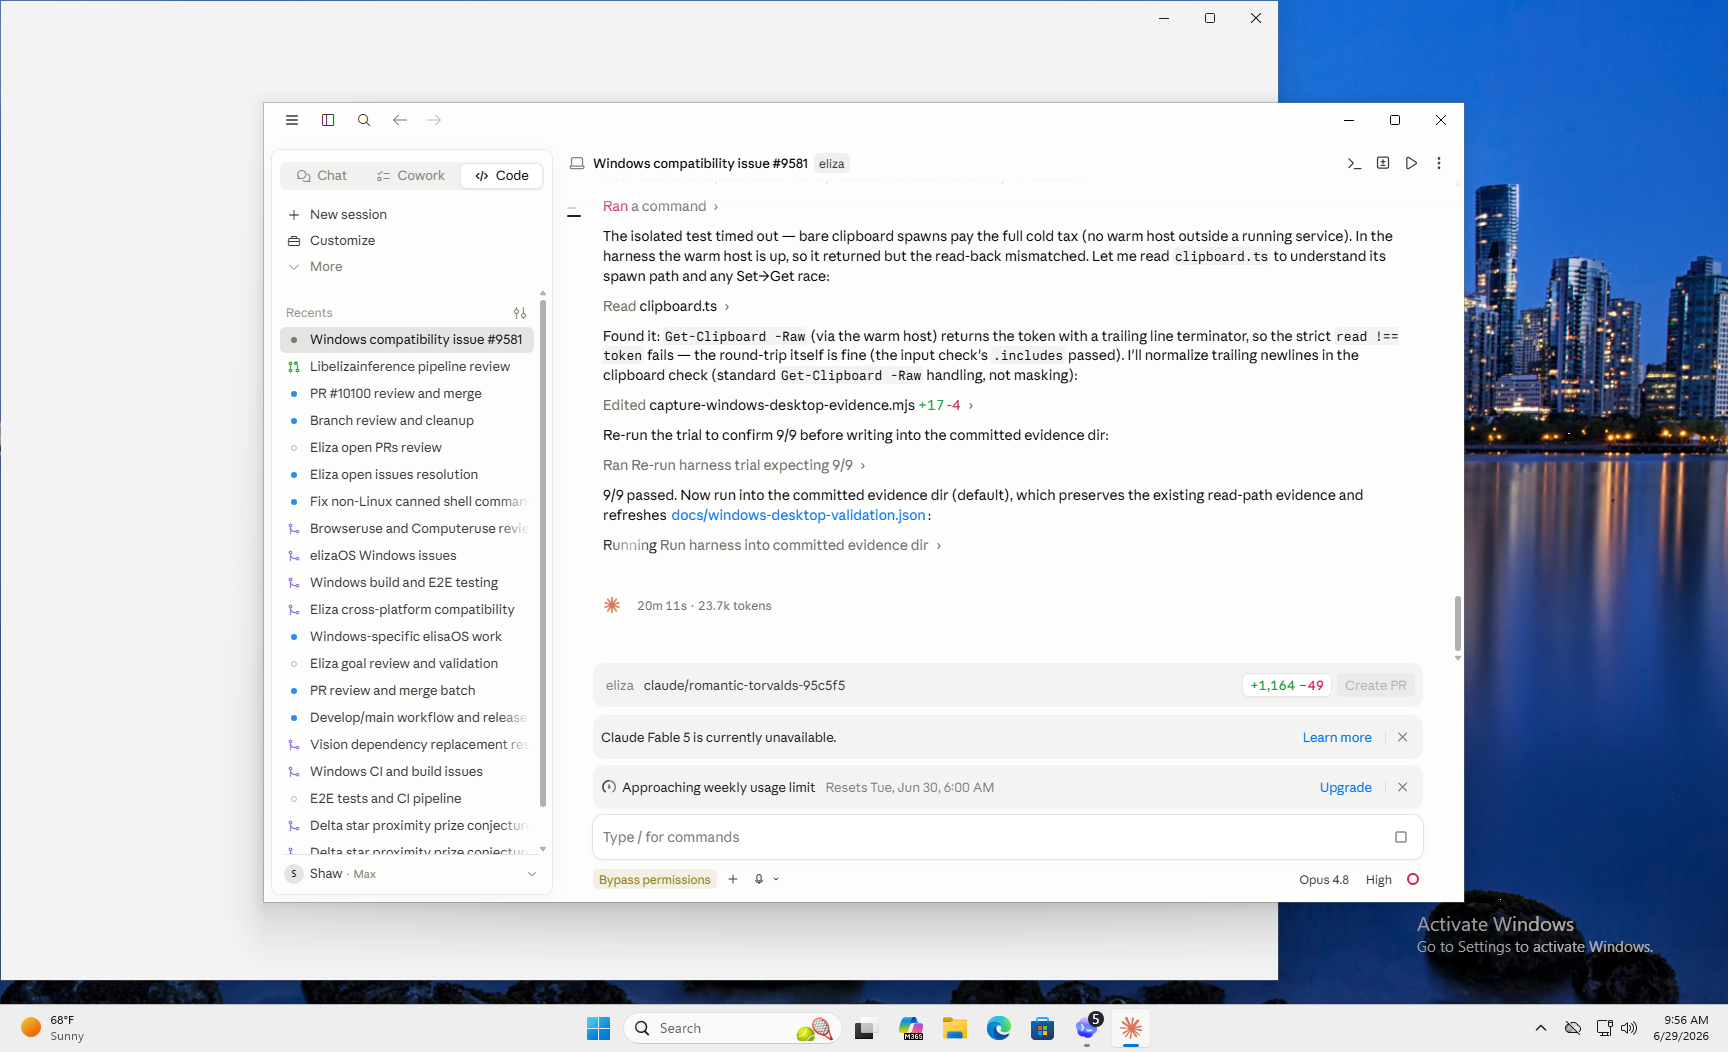
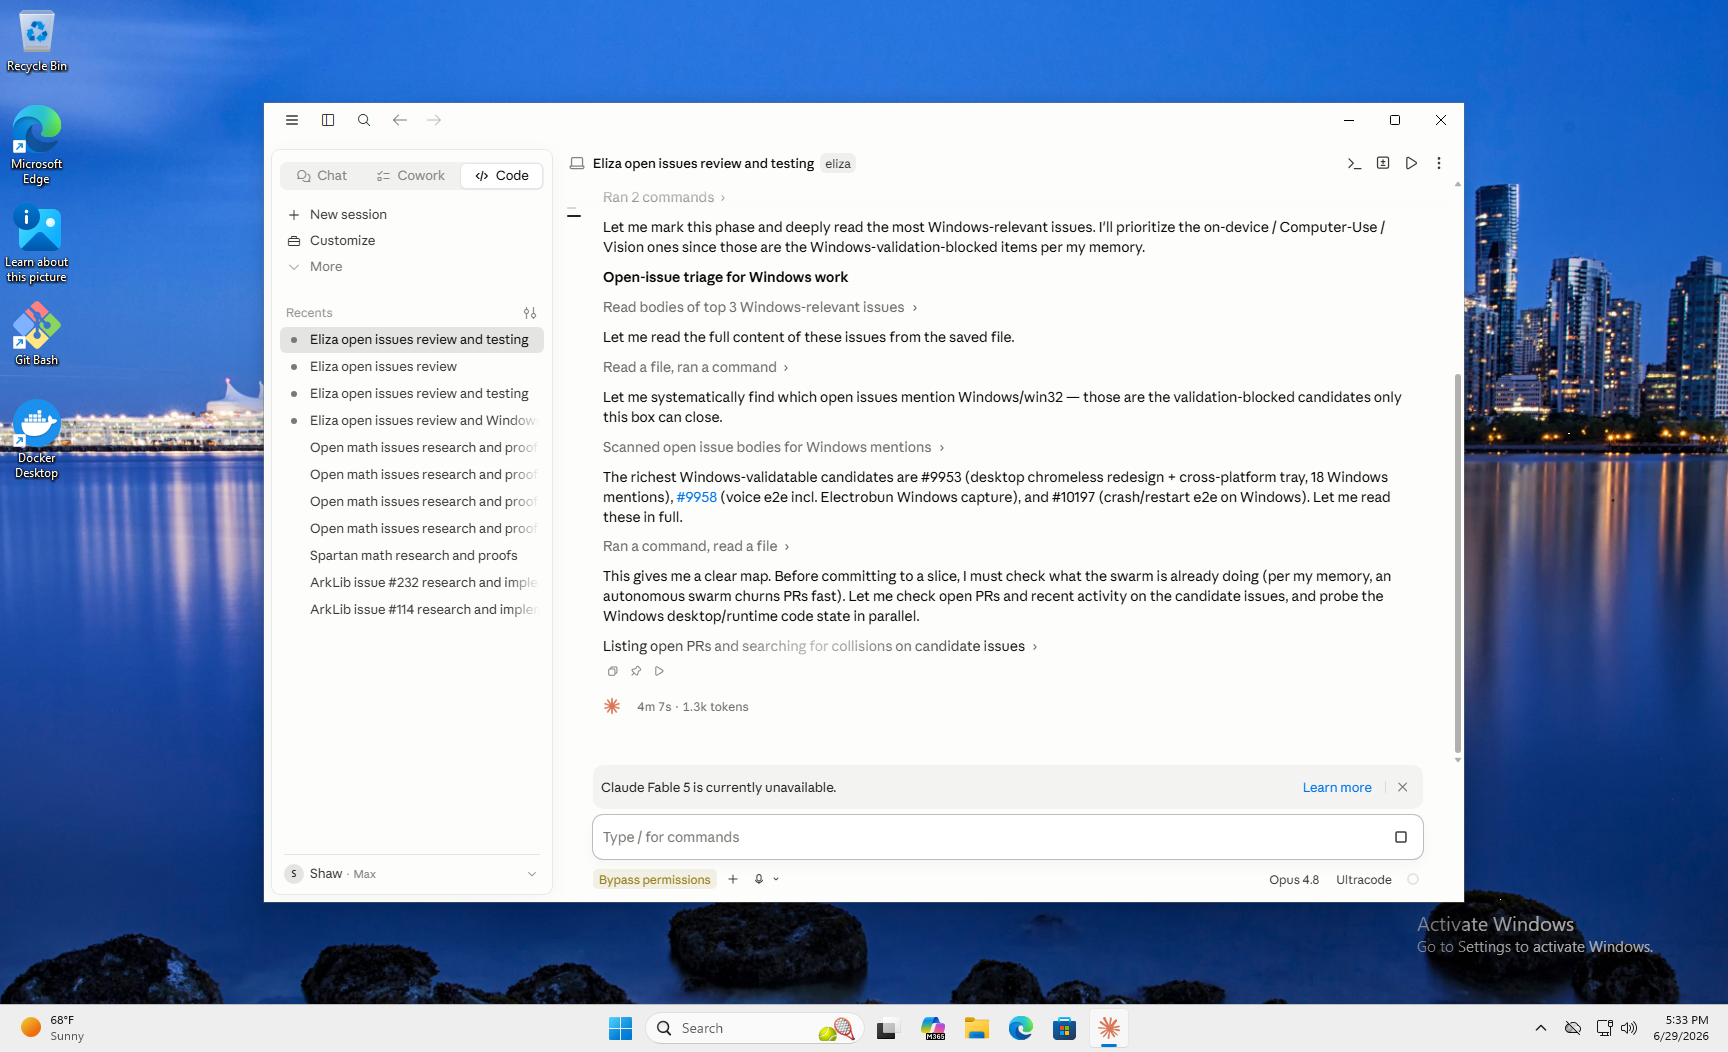
fix(test): repair repo-wide real/live lane crash + Windows-only wayland fileURLToPath (found running win32 lanes on develop) (#10332)
* test(computeruse): refresh #9581 Windows CUA evidence on current develop (9/9)

Re-ran capture:windows-desktop-evidence on the Defender-heavy Windows 11 box
against current develop (d07c1b4cca, up from the committed 03e0b1fc94). All 9
checks status:passed, strict-validated (--require-complete):

  capabilityProbe, screenshotCapture, mouseKeyboardInput (controlled-Notepad
  marker round-trip), windowListFocus (listWindows=2, not 0 — finding #2 still
  resolved), browserAutomation, clipboardRoundTrip, terminalSafety
  (Remove-Item -Recurse C:\ blocked; 1s timeout killed a 5s sleep),
  approvalMode, windowsHardeningRegression.

Confirms the psSpawnTimeoutMs floor and harness survived the develop advance
since PR #10163. Artifacts (report.json, manifest, screenshot-primary.png,
browser-evidence.png) regenerated against the current tip.

* fix(computeruse): portable Wayland portal URI parse on Windows

portalFileUriToPath() delegated to node:url fileURLToPath(uri). A Wayland
screenshot portal always returns a POSIX file:///… URI, and Node rejects a
driveless POSIX file URI on Windows:

  TypeError [ERR_INVALID_FILE_URL_PATH]: File URL path must be absolute

The wayland-portal unit test passed on Linux CI but FAILED on Windows, where
plugin-computeruse has no windows-ci lane (#9943 'green CI ≠ tested'); any
Windows-hosted caller would have thrown too. Parse host-independently via the
WHATWG URL + decodeURIComponent(pathname). A portal path is always Linux, so
[…]

Pull request: fix(test): repair repo-wide real/live lane crash + Windows-only wayland fileURLToPath (found running win32 lanes on develop)
## Summary

A **Windows-validation pass on current `develop`**, run on a real Windows 11 box — exercising the win32-gated lanes that **no CI job runs** for `plugin-computeruse` / `plugin-vision` (neither is in `windows-ci.yml`) and the repo-wide real/live lane. It surfaced **two real bugs** (one of them repo-wide) and refreshes the #9581 evidence. Three commits:

### 1. `fix(test)`: repair the real/live vitest config crash (repo-wide) — **headline**

`packages/test/vitest/real.config.ts` called `elizaWorkspacePattern()` with **no argument**; the helper does `relativePath.split("/")`, so **loading the config threw unconditionally**:

```
failed to load config from packages/test/vitest/real.config.ts
TypeError: Cannot read properties of undefined (reading 'split')
  at elizaWorkspacePattern (real.config.ts:69)
```

This crashes **every** real/live lane at startup — anything run with `--config packages/test/vitest/real.config.ts`: `run-all-tests.mjs`'s post-merge real suite, `package.json`'s `test:e2e:heavy`, and the `feed-test.yml` + `voice-live-e2e.yml` workflows. Reorg fallout: `b1eb2c51d9` removed `plugin-steward-app` and deleted the string arg (`plugins/plugin-steward-app/test/anvil-contracts.real.e2e.test.ts`) but left the call dangling. That Anvil test no longer exists → the exclusion is dead. Fix removes the empty call + its orphaned comment. A textbook #9943 / #8801 case (a broken real-lane config means the non-mock lanes silently never run).
[…]

diff --git a/plugins/plugin-computeruse/src/platform/wayland-portal.ts b/plugins/plugin-computeruse/src/platform/wayland-portal.ts
@@ -1,6 +1,5 @@
 import { execFileSync } from "node:child_process";
 import { copyFileSync } from "node:fs";
-import { fileURLToPath } from "node:url";
 import { commandExists } from "./helpers.js";
 import { createPermissionDeniedError } from "./permissions.js";
 
@@ -225,7 +224,19 @@ export function portalFileUriToPath(uri: string): string {
       `Wayland screenshot portal returned a non-file URI: ${uri}`,
     );
   }
-  return fileURLToPath(uri);
+  // A Wayland portal always hands back a POSIX file path (the portal is
+  // Linux-only at runtime). Parse it host-independently rather than via
+  // node:url's fileURLToPath, which rejects a POSIX `file://` URI on Windows
+  // with "File URL path must be absolute" — that threw inside the otherwise
+  // cross-platform unit lane (and would crash any Windows-hosted caller). The
+  // WHATWG URL parse + percent-decode yields the same path Linux produced.
+  const { hostname, pathname } = new URL(uri);
+  if (hostname && hostname !== "localhost") {
+    throw new Error(
+      `Wayland screenshot portal returned a non-local file URI: ${uri}`,
+    );
+  }
+  return decodeURIComponent(pathname);
 }
 
 export const WAYLAND_PORTAL_DBUS_TARGET = {

diff --git a/packages/test/vitest/real.config.ts b/packages/test/vitest/real.config.ts
@@ -513,10 +513,6 @@ export default defineConfig({
       "**/node_modules/**",
       ".claude/**",
       ...(hiddenElizaWorkspaceGlob ? [hiddenElizaWorkspaceGlob] : []),
-      // The default real/live lane only uses public chains. Local Anvil coverage
-      // stays out of bun run test until it is replaced with public-chain tests.
-      elizaWorkspacePattern(
-      ),
       elizaWorkspacePattern("packages/app-core/platforms/electrobun/**"),
       "apps/chrome-extension/**",
       elizaWorkspacePattern("cloud/**"),

diff --git a/.github/issue-evidence/9581-windows-cua/CAPTURE_README.md b/.github/issue-evidence/9581-windows-cua/CAPTURE_README.md
@@ -1,11 +1,11 @@
 # Issue #9581 Windows desktop CUA evidence
 
-Generated by `bun run --cwd plugins/plugin-computeruse capture:windows-desktop-evidence` at 2026-06-29T16:56:32.389Z.
+Generated by `bun run --cwd plugins/plugin-computeruse capture:windows-desktop-evidence` at 2026-06-30T00:33:12.419Z.
 
 - Status: `passed`
 - Machine: `QEMU Standard PC (Q35 + ICH9, 2009)`
 - Windows: `Microsoft Windows 11 Pro 10.0.26200 (build 26200)`
-- Git: `03e0b1fc94`
+- Git: `d07c1b4cca`
 
 The input proof is **non-disruptive**: it drives a freshly-launched, controlled
 Notepad window (not the user's apps) and terminates it when done.